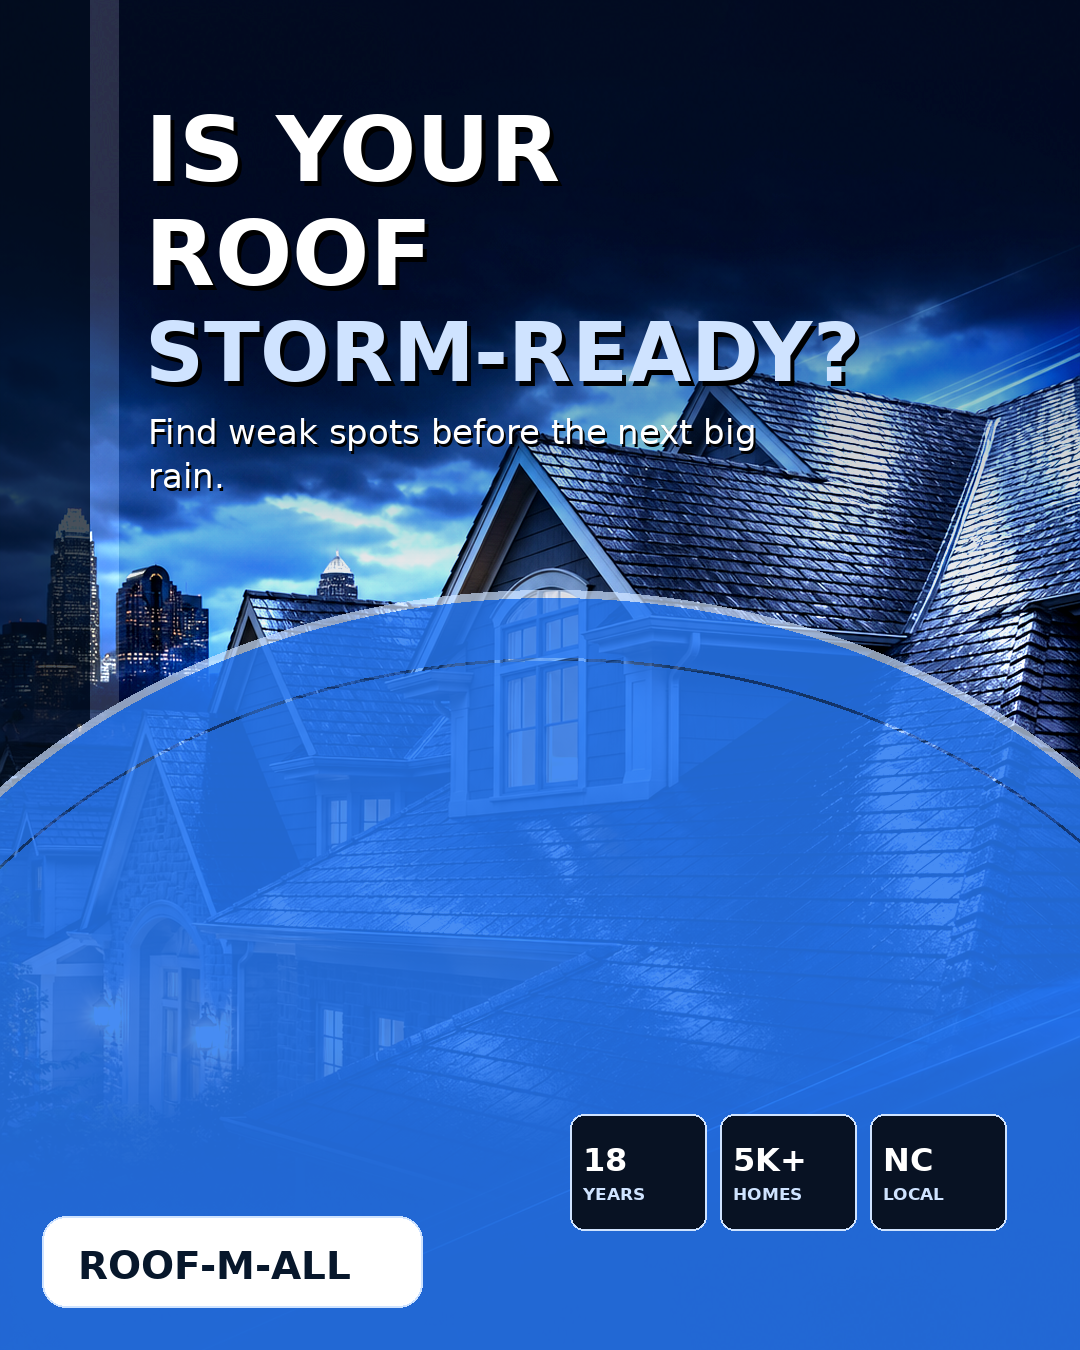
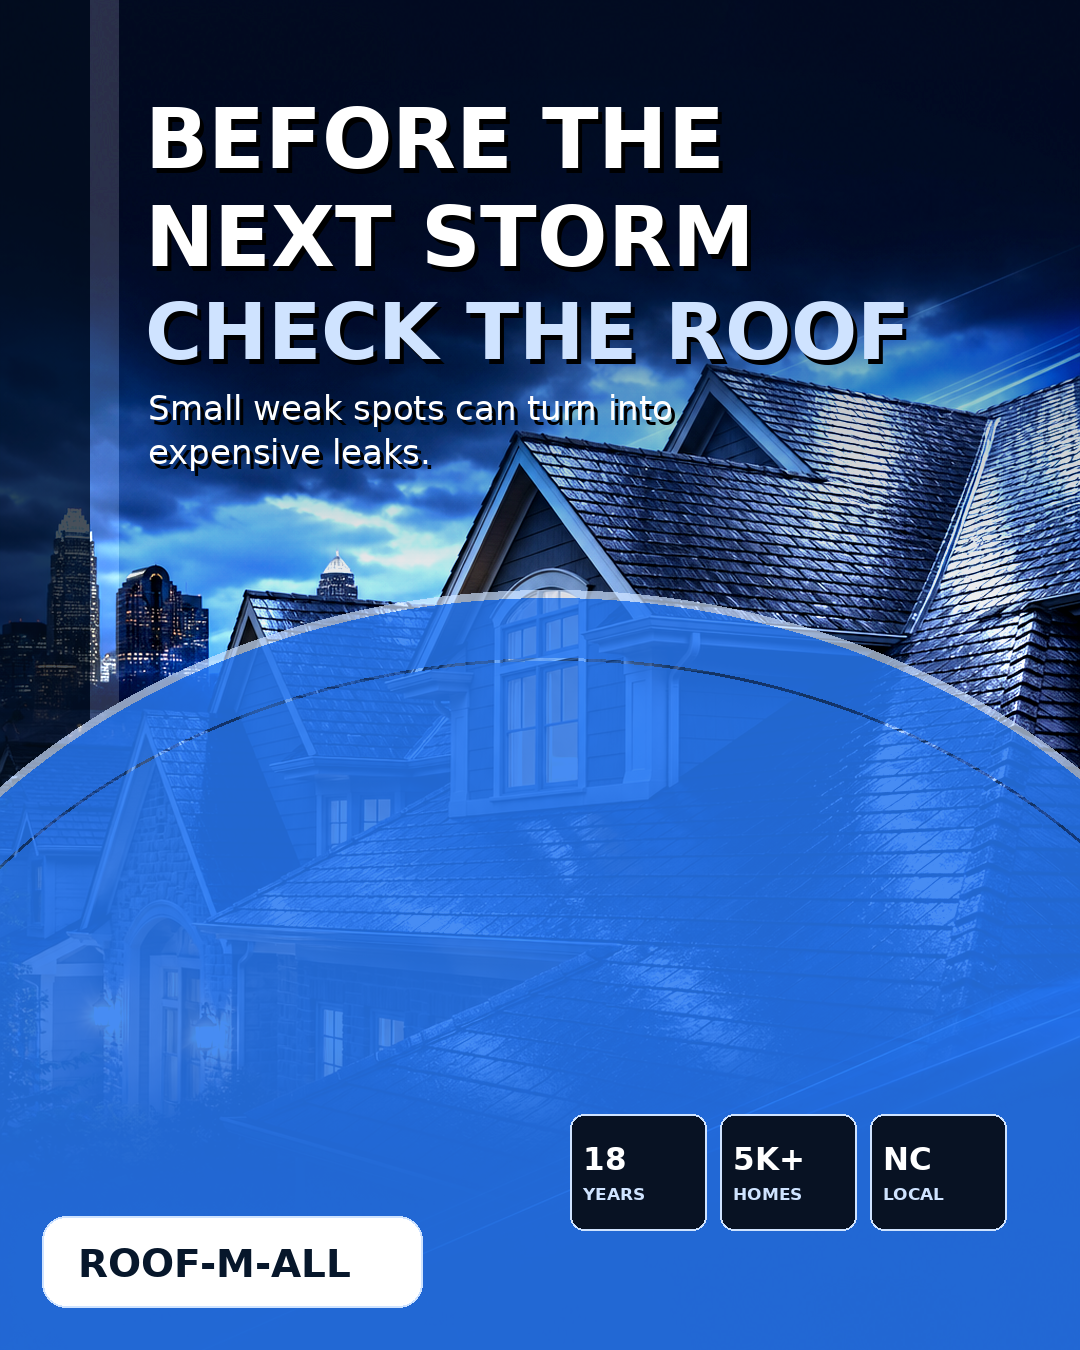
Sharpen RMA carousel copy

diff --git a/rma-instagram-carousel.html b/rma-instagram-carousel.html
@@ -49,12 +49,12 @@
         <div class="phone-shell">
           <div class="phone-bar"><span class="speaker"></span></div>
           <div class="carousel" data-carousel>
-            <article class="slide"><img src="assets/carousels/rma-instagram/rma-post-01-storm-ready.png" alt="RMA Instagram post 1: Storm Season Is Coming"></article>
-            <article class="slide"><img src="assets/carousels/rma-instagram/rma-post-02-small-problems-grow.png" alt="RMA Instagram post 2: Small Roof Problems Grow"></article>
-            <article class="slide"><img src="assets/carousels/rma-instagram/rma-post-03-local-exterior-help.png" alt="RMA Instagram post 3: Protect The Home You Love"></article>
-            <article class="slide"><img src="assets/carousels/rma-instagram/rma-post-04-before-it-leaks.png" alt="RMA Instagram post 4: Find It Before It Leaks"></article>
-            <article class="slide"><img src="assets/carousels/rma-instagram/rma-post-05-local-team.png" alt="RMA Instagram post 5: Real Help From Local Pros"></article>
-            <article class="slide"><img src="assets/carousels/rma-instagram/rma-post-06-free-estimate.png" alt="RMA Instagram post 6: Not Sure What It Costs?"></article>
+            <article class="slide"><img src="assets/carousels/rma-instagram/rma-post-01-storm-ready.png" alt="RMA Instagram post 1: Before the Next Storm, Check the Roof"></article>
+            <article class="slide"><img src="assets/carousels/rma-instagram/rma-post-02-small-problems-grow.png" alt="RMA Instagram post 2: A Small Leak Gets Expensive"></article>
+            <article class="slide"><img src="assets/carousels/rma-instagram/rma-post-03-local-exterior-help.png" alt="RMA Instagram post 3: Storm Damage? Don’t Guess"></article>
+            <article class="slide"><img src="assets/carousels/rma-instagram/rma-post-04-before-it-leaks.png" alt="RMA Instagram post 4: Don’t Wait for the Stain"></article>
+            <article class="slide"><img src="assets/carousels/rma-instagram/rma-post-05-local-team.png" alt="RMA Instagram post 5: Need Roof Help? Call Local"></article>
+            <article class="slide"><img src="assets/carousels/rma-instagram/rma-post-06-free-estimate.png" alt="RMA Instagram post 6: Free Roof Estimate Fast"></article>
           </div>
           <div class="swipe-hint">Swipe →</div>
         </div>
